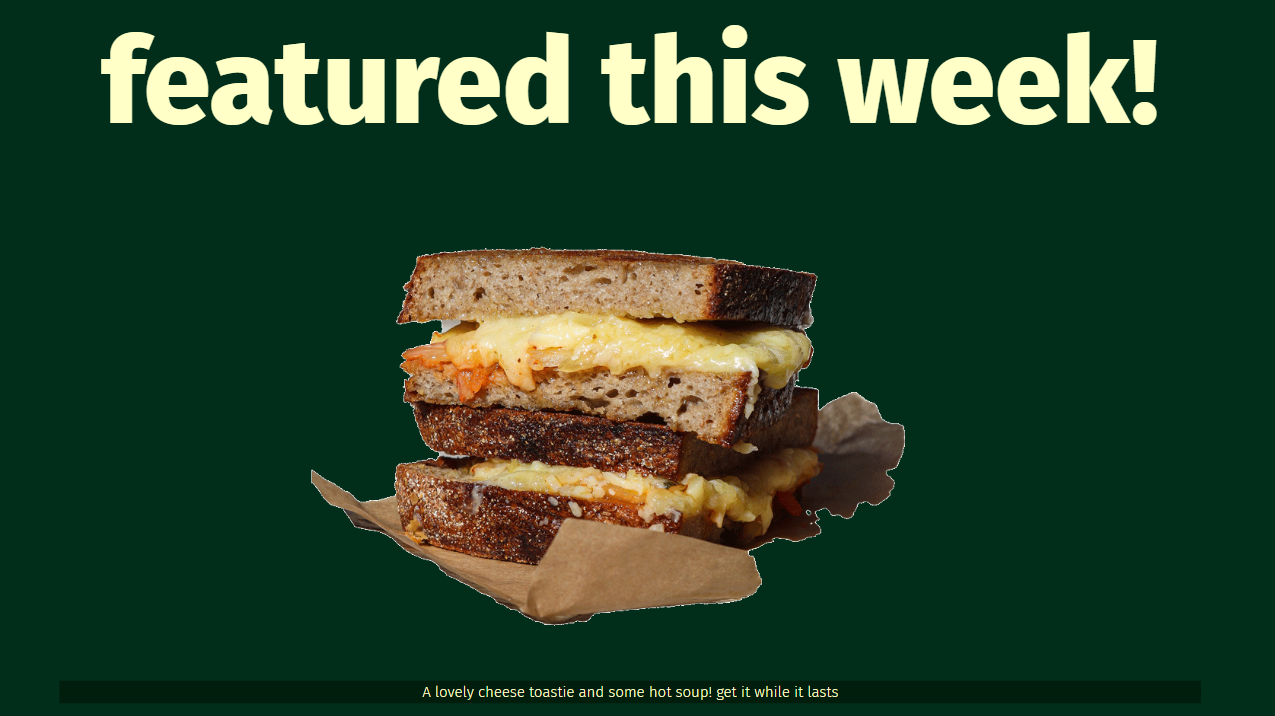
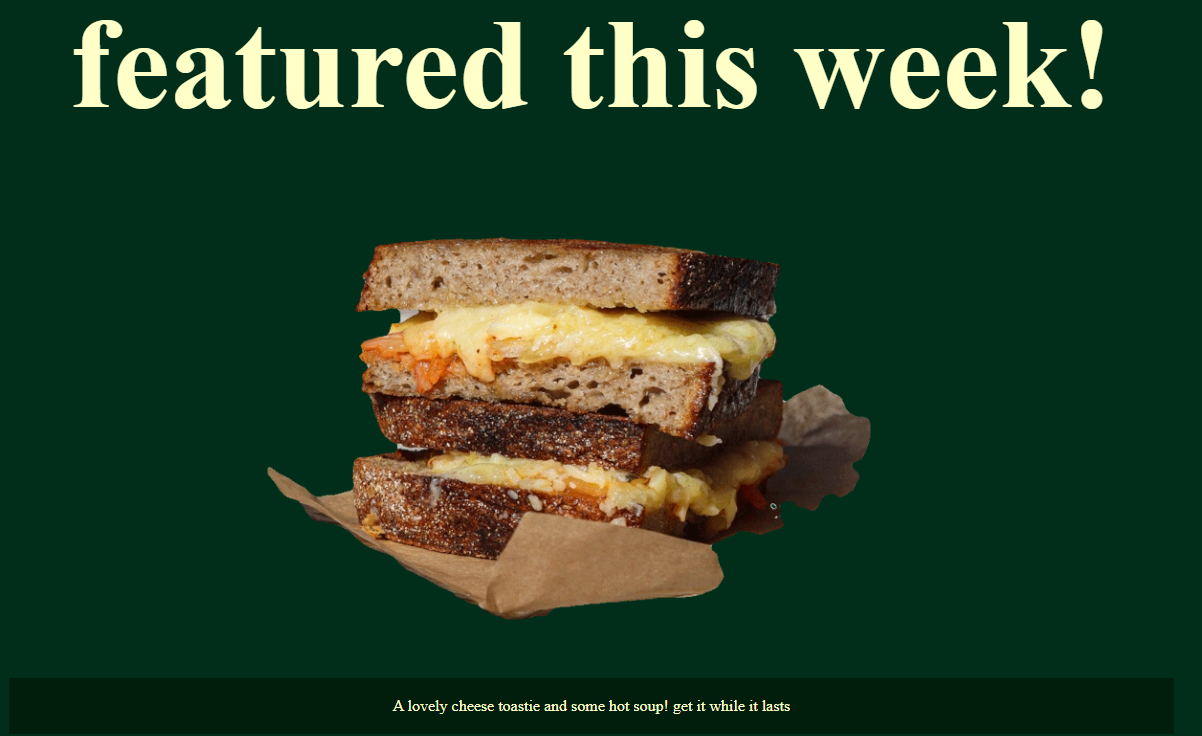
readme: updated images to most recent, added video about me section

Changed region(s): [[0.2155, 0.3073, 0.7388, 0.8911], [0.0616, 0.0307, 0.9235, 0.1844], [0.3078, 0.9525, 0.6772, 0.9832]]

diff --git a/README.md b/README.md
@@ -145,21 +145,21 @@ these follow the same naming convention but i will explain any differences here
 - The navigation highlights what page the user is on
 - When on small mobile devices the large title willnot be displayed to make the UI less cluttered.
 
-![Nav Bar](/assets/readme-images/Screenshot-navbar.png)
+![Nav Bar](/assets/readme-images/screenshot-navbar.png)
 
 ### The landing page
 
 - the landing page includes the businesses logo and location aswell as a hand drawn image of the shop to draw the user in while keeping with the minimilist style of the business and the page.
 - The drawn picture will not be displayed on very small screens as this allows mobile users to quickly get to the infomation they are looking for.
 
-![Hero](/assets/readme-images/Screenshot-hero.png)
+![Hero](/assets/readme-images/screenshot-hero.png)
 
 ### The About section
 
 - the about me includes a large title "Who are we" and a picture of the owner inside the shop in a two page collumn on desktop. highligting the main draw of the shop that it is a local business with someone who really cares about it in charge.
 - it also includes a quote taken from the owner about the conception of the business and what the shop aims to be.
 
-![About us](/assets/readme-images/Screenshot-whoarewe.png)
+![About us](/assets/readme-images/screenshot-whoarewe.png)
 
 ### featured section
 
@@ -169,7 +169,7 @@ The Plant collection dont sell the same products all year round and have special
 
 - the image draws a customer to seeing a highlihted product that the business is selling that week with a description of the product underneath.
 
-![Featured](/assets/readme-images/Screenshot-featured.png)
+![Featured](/assets/readme-images/screenshot-featured.png)
 
 ### Coffee, Plants and Local
 
@@ -177,49 +177,62 @@ The Plant collection dont sell the same products all year round and have special
 - a image is included the highlight the difference of each one
 - a link is included at the bottom that will send them to the larger section on each aspect on the about me page.
 
-![Sections](/assets/readme-images/Screenshot-section.png)
+![Sections](/assets/readme-images/screenshot-coffee.png)
+![Sections](/assets/readme-images/screenshot-plants.png)
+![Sections](/assets/readme-images/screenshot-local.png)
 
 ### location and opening times section
 
 - this section includes key infomation on where the shop is located, when it is open and what the business sells.
 
-![Location](/assets/readme-images/Screenshot-location.png)
+![Location](/assets/readme-images/screenshot-footer-location.png)
 
 ### footer
 
 - the footer displays links to social media account of the plant collection
 - it also displays a sign up for an emailing list
 
-![footer](/assets/readme-images/Screenshot-footer.png)
+![footer](/assets/readme-images/screenshot-footer.png)
 
 ## About page features
 
 ### Hero section
 
 -this section gives a over view of the businesses aims and culture.
--it contains a img of the owners giving a face to the business
+-it contains a img the home made food served at plant collection to show its authenticity
 
-![About us hero](/assets/readme-images/Screenshot-about-hero.png)
+![About us hero](/assets/readme-images/screenshot-aboutus-hero.png)
+
+### additional information
+- when recieving feedback from the owners they sent over more content, a description to add to the about me to let customers know more about the business and aims 
+
+![About us Additional](/assets/readme-images/screenshot-aboutus-additional.png)
+
+### Video Tour
+- the daily mail did a news story on the plant collection and a Iframe has been added here to link to that page
+- in future a home made video could be put in place of this one 
+
+![About us video](/assets/readme-images/screenshot-aboutus-video.png)
 
 ### coffee section
 
 -this section goes into more detail about the coffee, where it is sourced andfood menu items.
 
-![About us hero](/assets/readme-images/Screenshot-about-coffee.png)
+![About us Coffee](/assets/readme-images/screenshot-aboutus-coffee.png)
 
 ### plant section
 
 - this section foes into more detail about the plants that are stocked
 - this section also contains useful plant care tips
 
-![About us hero](/assets/readme-images/Screenshot-about-plants.png)
+![About us Plants](/assets/readme-images/screenshot-aboutus-plants.png)
 
 ## Events page features
 
 - the events page very simply displays upcoming events and dates
 - the events page will display No events if nothing is coming up
 
-![About us hero](/assets/readme-images/Screenshot-events.png)
+![Events](/assets/readme-images/screenshot-events.png)
 
 ## Contact us page features
 
@@ -228,13 +241,13 @@ The Plant collection dont sell the same products all year round and have special
 - this is a form for the user to fill out to be added to the Plnnt collection mailing list to recieve updates
 - the data is sent to plant collection via email but a Back end database needs setting up to be able to save this infomation in a future
 
-![Mailing list form](/assets/readme-images/Screenshot-contact.png)
+![Mailing list form](/assets/readme-images/screenshot-signup.png)
 
 ### Google map
 
 -this shows the user how to get to the Plant collection from there location
 
-![google map](/assets/readme-images/Screenshot-contact-map.png)
+![google map](/assets/readme-images/screenshot-contact-map.png)
 
 ## Features still to add
 
@@ -281,7 +294,7 @@ The Plant collection dont sell the same products all year round and have special
 
 - #### Accessibility
   - Acessibility passes the lighthouse testing and acheived a score of 100%
-  - [lighthousescore](/assets/readme-images/Screenshot-lighthouse.png)
+  - [lighthousescore](/assets/readme-images/screenshot-lighthouse.png)
 
 ### Form Testing
 
@@ -304,7 +317,7 @@ The Plant collection dont sell the same products all year round and have special
 
 - i took the website into the coffee shop to get the owners to user test it and give feedback on any changes that they would want.
   - the owners gave me some written content to add to the page aswell as images from the shop to add 
-  - [Owners Email](/assets/readme-images/Screenshot-email-from-owners.png)
+  - [Owners Email](/assets/readme-images/screenshot-email-from-owners.png)
 
 - i asked some friends to try out the site to find any bugs or issues with user experience
 
